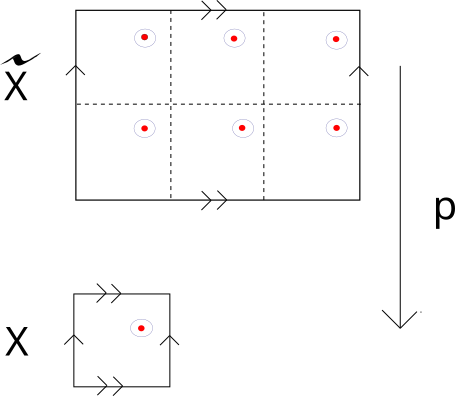
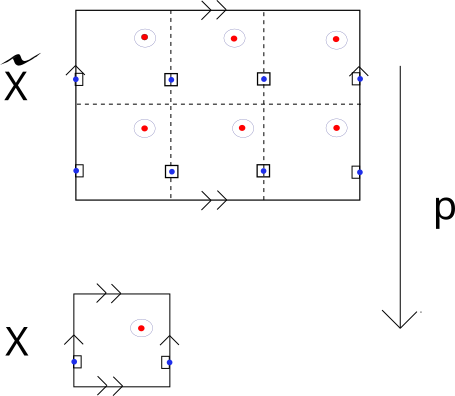
mejor relacion de equivalencia en ejemplo del toro

diff --git a/tesis/cubrimientos_pares.tex b/tesis/cubrimientos_pares.tex
@@ -45,14 +45,30 @@ El conjunto discreto dado por \(p^{-1} (x_0)\) es conocido como una
 \noindent Una invariante interesante de este es que la cardinalidad de
 cualquier fibra es la misma para todos los puntos.
 
-\begin{ejemplo}[Cubrimiento de toro]
+\begin{ejemplo}[Cubrimiento de toro] \label{ej:cubrimiento-toro}
   En el ejemplo \ref{ej:toro-presentacion} se trabajo con la
   presentación de toro como espacio cociente de \([0,1]^2\). Siguiendo
   la idea del ejemplo anterior, podemos obtener un cubrimiento de esta
   presentación mediante el siguiente diagrama.
   \begin{figure}[h]
     \centering \includegraphics[scale=0.5]{./imagenes/toro-cubrimiento.png}
+    \caption*{Ejemplo \ref{ej:cubrimiento-toro}: Cubrimiento del toro}
   \end{figure}
+  La funcion en este caso corresponderia a
+  \begin{gather*}
+    \tilde X = [0,3] \times [0,2] \, / \, \{
+      (x,0) \sim (x, 1), \ (0,y) \sim (1,y) \} \\
+    X = [0,1] \times [0,1] \, / \, \{
+      (x,0) \sim (x, 1), \ (0,y) \sim (1,y) \}
+  \end{gather*}
+  \begin{align*}
+    p : \tilde X &\longrightarrow X \\
+    (a,b) &\longmapsto \left( a \mod {1}, b \mod {1} \right)
+  \end{align*}
+  Aquí se muestran dos fibras de diferentes puntos iniciales. Notar que
+  el punto con la vecindad rectangular esta en el borde identificado,
+  por tanto su vecindad se refleja mediante esta. Esto se hereda en su
+  cubrimiento que también tiene identificaciones de igual menera.
 \end{ejemplo}
 
 \begin{ejemplo}[Cubrimiento: \(\Re\) sobre \(S^1\)]
